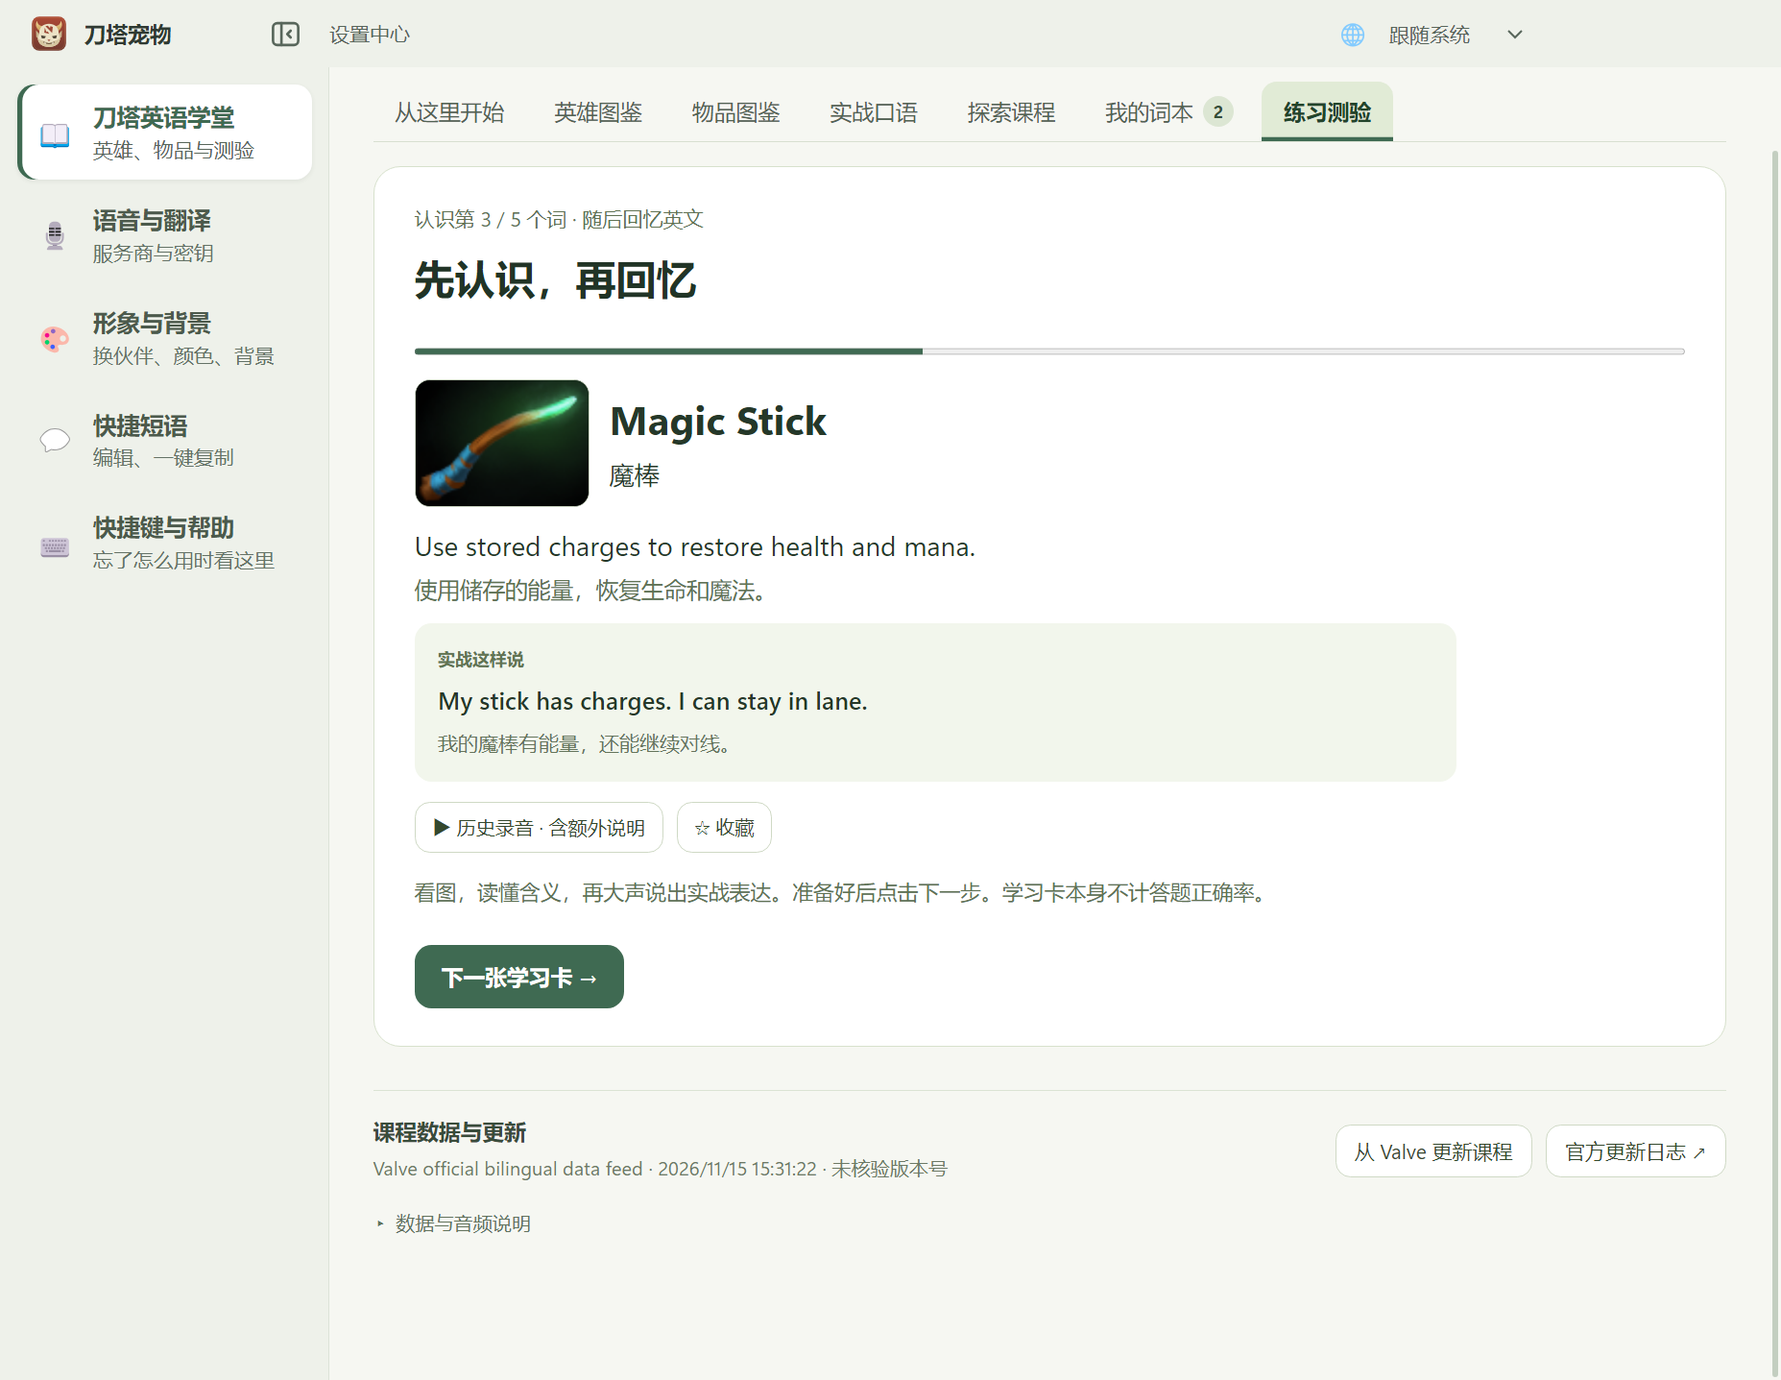
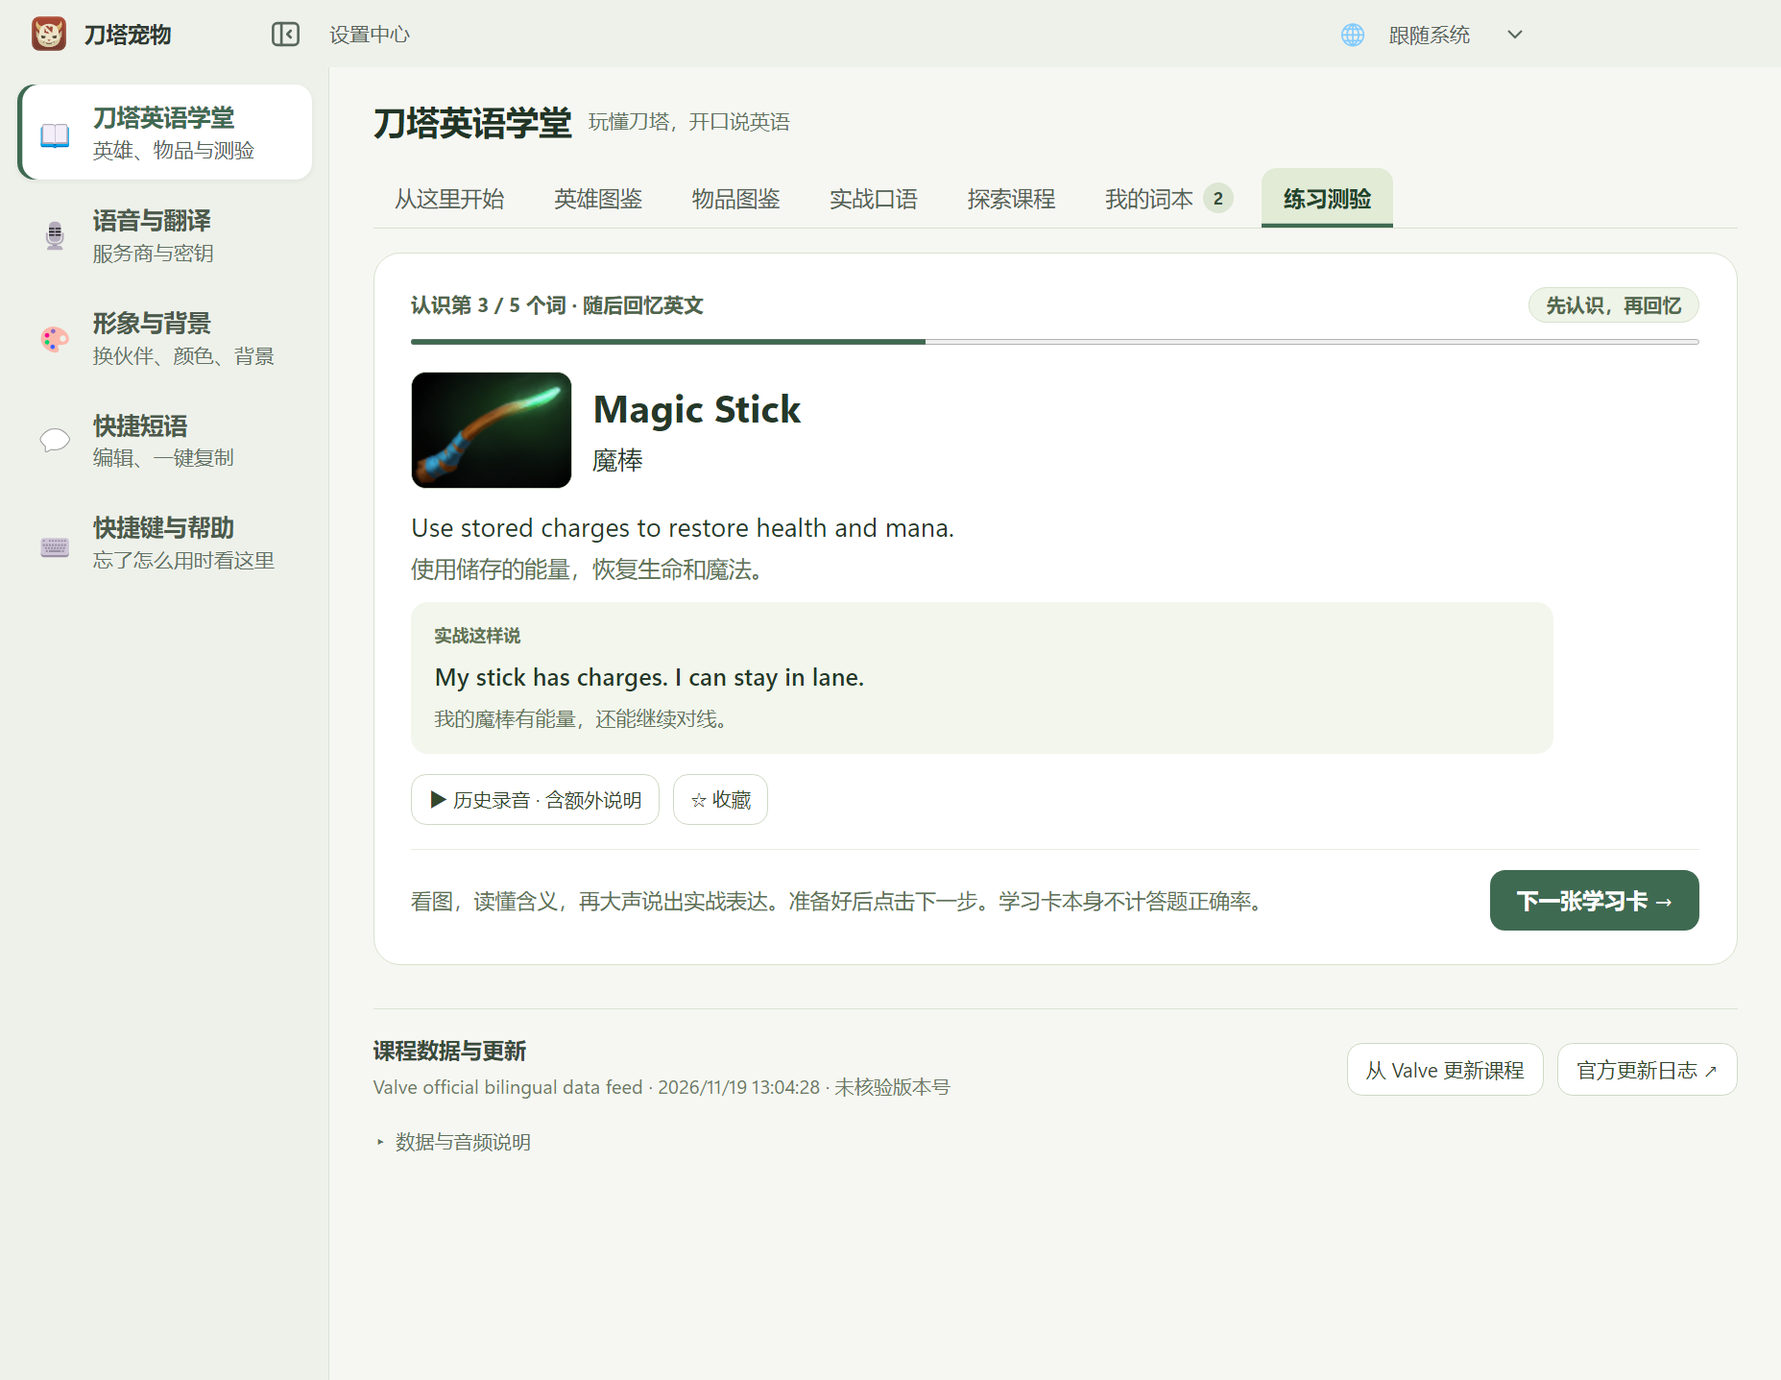
feat(learning): align quiz feedback bar with zero-scroll Play and Next controls

diff --git a/src/renderer/learning.css b/src/renderer/learning.css
@@ -101,30 +101,76 @@ input:focus,select:focus{border-color:#5b8267;box-shadow:0 0 0 3px rgba(63,106,8
 .mastery-sub{font-size:10px;color:#738067}
 
 /* === Guided Lesson, Quiz & Summary === */
-.practice{background:#fff;border:1px solid #d7e1cc;border-radius:16px;padding:22px 24px;margin:4px 0 18px}
-.practice h2{font-size:24px;margin:8px 0 10px;color:#213426}
-.practice #answers{display:grid;grid-template-columns:1fr 1fr;gap:10px;margin:14px 0}
-#answers button{text-align:left;padding:13px 15px;min-height:44px;border-radius:11px}
-#answers .correct{background:#dcebd0;border-color:#7c9f5d}
-#answers .wrong{background:#f6e0d8;border-color:#c38b75}
-#quiz-counter,#quiz-context{font-size:12px;color:#71805e;margin:0 0 6px}
-#quiz-explanation{font-size:13px;line-height:1.7;white-space:pre-line}
-#result{font-weight:600}
-#session-progress,#guide-progress{width:100%;height:8px;accent-color:#3f6a52}
+.practice{background:#fff;border:1px solid #d7e1cc;border-radius:16px;padding:20px 22px;margin:4px 0 18px}
+.practice h2{font-size:24px;margin:6px 0 8px;color:#213426}
+.quiz-top{display:flex;align-items:center;justify-content:space-between;gap:10px;flex-wrap:wrap;margin:0 0 8px}
+#quiz-counter,#guide-counter{font-size:12px;font-weight:700;color:#4f664b;margin:0;font-variant-numeric:tabular-nums}
+#quiz-context,.practice .guide-title-tag{font-size:11.5px;font-weight:600;line-height:1.4;color:#52694d;background:#eef4e7;border:1px solid #d7e2cc;padding:2px 10px;border-radius:999px;margin:0}
+#session-progress,#guide-progress{width:100%;height:7px;accent-color:#3f6a52;display:block;margin:0 0 14px}
+
+.quiz-prompt-row{display:flex;align-items:center;gap:14px;margin:0 0 14px}
+.quiz-prompt-copy{min-width:0;flex:1}
+.quiz-prompt-copy #question{font-size:24px;line-height:1.25;margin:0 0 4px;color:#1e3222}
+.quiz-prompt-copy #recall-help{font-size:12.5px;color:#64745b;line-height:1.5;margin:0}
+#quiz-picture:empty{display:none}
+#quiz-picture{margin:0;flex-shrink:0}
+#quiz-picture .item-picture{width:82px;height:60px;border-radius:10px}
+
+.practice #answers{display:grid;grid-template-columns:1fr 1fr;gap:10px;margin:0}
+#answers button{display:flex;align-items:center;justify-content:space-between;gap:8px;text-align:left;padding:12px 15px;min-height:44px;border-radius:11px;font-size:14px;font-weight:500;color:#233726;background:#fcfdfb;border:1px solid #d2dcc8}
+#answers button:hover:not(:disabled){background:#f1f6ea;border-color:#9bb389}
+#answers button:disabled{opacity:.55}
+#answers .correct{opacity:1!important;background:#e1f0d6;border-color:#5f8d4e;color:#1b4322;font-weight:700}
+#answers .correct::after{content:'✓';font-size:14px;font-weight:800;color:#2c6430;flex-shrink:0}
+#answers .wrong{opacity:1!important;background:#fbe7e1;border-color:#c97d6b;color:#7f2a1f;font-weight:700}
+#answers .wrong::after{content:'✕';font-size:13px;font-weight:800;color:#a93c2d;flex-shrink:0}
+
+.quiz-feedback{margin-top:14px;display:flex;flex-direction:column;gap:10px}
+.quiz-feedback-bar{display:flex;align-items:center;justify-content:space-between;gap:12px;flex-wrap:wrap;padding:10px 14px;border-radius:12px;background:#edf5e6;border:1px solid #c9dcba}
+.quiz-feedback[data-outcome=wrong] .quiz-feedback-bar{background:#fcf0ec;border-color:#e8c4b9}
+#result{font-size:13.5px;font-weight:700;color:#234e2a;margin:0}
+.quiz-feedback[data-outcome=wrong] #result{color:#8c2f23}
+.quiz-feedback-actions{display:flex;align-items:center;gap:8px;flex-wrap:wrap;flex-shrink:0}
+.quiz-audio-slot{display:inline-flex;align-items:center;gap:8px}
+.quiz-audio-slot button{height:36px;padding:0 13px;border-radius:9px;background:#fff;border:1px solid #c4d5b9;color:#29462d;font-size:12.5px;font-weight:600}
+.quiz-audio-slot button:hover:not(:disabled){background:#f5f9f0;border-color:#8cab7c}
+#next{height:36px;padding:0 16px;border:0;border-radius:9px;background:#3f6a52;color:#fff;font-size:13px;font-weight:600;margin:0}
+#next:hover:not(:disabled){background:#325844}
+
+.quiz-explanation:empty{display:none}
+.quiz-explanation{display:flex;flex-direction:column;gap:8px}
+.quiz-coach{padding:11px 14px;border-radius:11px;background:#f4f8ef;border:1px solid #dde6d5}
+.quiz-coach-label{display:inline-block;font-size:10.5px;font-weight:700;letter-spacing:.3px;color:#5a704f;margin-bottom:4px}
+.quiz-coach-en{font-size:14.5px;font-weight:600;line-height:1.45;color:#1e3322;margin:0 0 3px}
+.quiz-coach-zh{font-size:12.5px;line-height:1.5;color:#5f6f58;margin:0}
+.quiz-details{border:1px solid #e1e8da;border-radius:10px;background:#fafbf8;padding:8px 12px}
+.quiz-details summary{cursor:pointer;list-style:none;display:inline-flex;align-items:center;gap:5px;font-size:12px;font-weight:600;color:#51664c;user-select:none}
+.quiz-details summary::-webkit-details-marker{display:none}
+.quiz-details summary::before{content:'▸';font-size:10px;line-height:1;transition:transform .15s ease}
+.quiz-details[open] summary::before{transform:rotate(90deg)}
+.quiz-details summary:hover{color:#26402a}
+.quiz-details-body{margin-top:8px;padding-top:8px;border-top:1px solid #e9efe3}
+.quiz-bilingual-box{padding:11px 14px;border-radius:11px;background:#f7f9f3;border:1px solid #e1e8da}
+.quiz-desc-en{font-size:12.5px;line-height:1.65;color:#2b3e2e;white-space:pre-line;margin:0}
+.quiz-desc-zh{font-size:12px;line-height:1.65;color:#5f6f58;white-space:pre-line;margin:8px 0 0;padding-top:8px;border-top:1px solid #e5ecde}
+
 #summary-score{font-size:20px;font-weight:700;margin:8px 0}
 #summary-tip{font-size:13px;color:#607253;line-height:1.6}
 .review-word{padding:12px 0;border-top:1px solid #e0e7d8;overflow-wrap:anywhere}
 #session-mistakes{margin:14px 0}
-#guide-help,#guide-status{font-size:12.5px;line-height:1.6;color:#607253}
-.guided-card{max-width:620px}
-.guided-card .lesson-title h3{font-size:24px;line-height:1.3;margin:0 0 6px;overflow-wrap:anywhere}
-.guided-card .item-picture{width:104px;height:76px}
-.guide-meaning{font-size:16px;line-height:1.55;margin:10px 0 4px}
+.guide-footer{display:flex;align-items:center;justify-content:space-between;gap:14px;flex-wrap:wrap;margin-top:14px;padding-top:12px;border-top:1px solid #e6ede0}
+#guide-help{font-size:12.5px;line-height:1.55;color:#607253;margin:0;flex:1;min-width:220px}
+#guide-status{font-size:12px;line-height:1.5;color:#607253;margin:8px 0 0}
+#guide-status:empty{display:none}
+.guided-card{max-width:680px}
+.guided-card .lesson-title h3{font-size:23px;line-height:1.3;margin:0 0 4px;overflow-wrap:anywhere}
+.guided-card .item-picture{width:96px;height:70px}
+.guide-meaning{font-size:15.5px;line-height:1.55;margin:10px 0 3px}
 .guide-translation{font-size:13.5px;color:#607253;margin:0 0 10px}
-.guided-card .item-coach{padding:14px}
-#guide-next,#next,#new-session{background:#3f6a52;color:#fff;border:0;font-weight:600;padding:9px 16px;border-radius:10px;margin-top:10px}
-#guide-next:hover:not(:disabled),#next:hover:not(:disabled),#new-session:hover:not(:disabled){background:#325844}
-#guide-counter{font-size:12px;color:#607253;margin:0 0 6px}
+.guided-card .item-coach{padding:12px 14px}
+#guide-next,#new-session{background:#3f6a52;color:#fff;border:0;font-weight:600;padding:8px 16px;height:36px;border-radius:9px;margin:0;flex-shrink:0}
+#new-session{margin-top:10px}
+#guide-next:hover:not(:disabled),#new-session:hover:not(:disabled){background:#325844}
 
 /* === Lesson Cards & Explore / Saved Library === */
 .lessons{display:grid;grid-template-columns:repeat(2,minmax(0,1fr));gap:12px}
@@ -142,7 +188,7 @@ input:focus,select:focus{border-color:#5b8267;box-shadow:0 0 0 3px rgba(63,106,8
 /* === Audio & Voice Practice === */
 .audio-status{position:fixed;bottom:18px;left:24px;right:24px;z-index:60;padding:12px 16px;border:1px solid #d5ae82;border-radius:10px;background:#fff4de;color:#5f4527;font-size:13px;box-shadow:0 4px 18px #0002}
 .recording-button[aria-pressed=true]{background:#dcebd0;border-color:#7c9f5d}
-#quiz-audio{margin-bottom:14px}
+#quiz-audio{margin:0}
 .voice-practice-btn{background:#3f6a52;color:#fff;border-color:#3f6a52;font-weight:600}
 .voice-practice-btn:hover{background:#325844}
 .voice-practice-bar{position:fixed;bottom:16px;left:50%;transform:translateX(-50%);z-index:20;width:min(700px,calc(100% - 32px));background:rgba(244,248,238,.94);backdrop-filter:blur(12px);border:1px solid #b4c99e;border-radius:16px;padding:12px 16px;box-shadow:0 12px 32px rgba(27,46,24,.16);animation:voiceBarRise .2s ease-out}
@@ -230,9 +276,6 @@ input:focus,select:focus{border-color:#5b8267;box-shadow:0 0 0 3px rgba(63,106,8
 .match-chinese{font-size:12px;color:#65745b;line-height:1.55;margin:0}
 .vocabulary-hints{display:flex;flex-wrap:wrap;gap:5px;margin-top:8px}
 .vocabulary-hint{font-size:10px;padding:2px 6px;background:#fff;border:1px solid #dbe4d1;border-radius:5px}
-#recall-help{font-size:12px;color:#64745b;line-height:1.6}
-#quiz-picture:empty{display:none}
-#quiz-picture{margin-top:10px}
 
 /* === Dota 2 Official Shop Item Grid === */
 .item-shop-bar{display:flex;align-items:center;justify-content:space-between;gap:8px;flex-wrap:wrap;margin:4px 0 9px}

diff --git a/src/renderer/learning.js b/src/renderer/learning.js
@@ -1162,14 +1162,17 @@ function renderStudy() {
   $('practice').hidden = false;
   $('quiz-counter').textContent = text('Lesson ', '第 ') + (index + 1) + ' / ' + active.items.length;
   $('session-progress').max = active.items.length; $('session-progress').value = active.answers.length;
-  $('quiz-context').textContent = labels[item.lesson.kind] + ' · ' + (item.lesson.parent || '');
+  $('quiz-context').textContent = item.lesson.parent ? `${labels[item.lesson.kind]} · ${item.lesson.parent}` : labels[item.lesson.kind];
   $('question').textContent = item.question.prompt;
   $('quiz-picture').replaceChildren();
   if (item.lesson.kind === 'item') $('quiz-picture').append(itemImageNode(item.lesson, true));
   $('recall-help').textContent = item.lesson.kind === 'item'
     ? text('Say your answer aloud before choosing. The picture is your memory cue.', '先大声说出答案，再选择。物品图片可以帮助你回忆。')
     : text('Try saying your answer aloud before choosing.', '先尝试大声说出答案，再选择。');
-  $('answers').replaceChildren(); $('quiz-audio').replaceChildren(); $('result').textContent = ''; $('quiz-explanation').textContent = '';
+  $('answers').replaceChildren(); $('quiz-audio').replaceChildren(); $('result').textContent = ''; $('quiz-explanation').replaceChildren();
+  const feedbackBox = $('quiz-feedback');
+  feedbackBox.hidden = !showFeedback;
+  feedbackBox.dataset.outcome = showFeedback ? (showFeedback.correct ? 'correct' : 'wrong') : '';
   $('next').hidden = !showFeedback;
   $('next').textContent = active.completedAt ? text('See session summary →', '查看学习总结 →') : text('Next question →', '下一题 →');
   for (const option of item.question.options) {
@@ -1184,16 +1187,48 @@ function renderStudy() {
         receive(await api.answerSession(active.id, item.lesson.id, option));
         feedbackIndex = index;
         if (mode === 'quiz') render();
-      } catch (error) { $('result').textContent = error.message; for (const control of $('answers').children) control.disabled = false; }
+      } catch (error) {
+        feedbackBox.hidden = false;
+        feedbackBox.dataset.outcome = 'wrong';
+        $('result').textContent = error.message;
+        for (const control of $('answers').children) control.disabled = false;
+      }
       finally { pendingAnswer = false; }
     };
     $('answers').append(button);
   }
   if (showFeedback) {
-    $('result').textContent = showFeedback.correct ? text('Correct! Scheduled for a later review.', '答对了！已安排后续复习。') : text('Answer: ', '正确答案：') + item.question.answer;
-    const cue = itemCoaching(item.lesson);
-    $('quiz-explanation').textContent = (cue ? cue.en + '\n' + cue.zh + '\n\n' : '') + item.lesson.descriptionEn + '\n' + item.lesson.descriptionZh;
+    $('result').textContent = showFeedback.correct
+      ? text('✓ Correct! Scheduled for a later review.', '✓ 答对了！已安排后续复习。')
+      : text('✕ Answer: ', '✕ 正确答案：') + item.question.answer;
     $('quiz-audio').append(audioButton(item.lesson));
+    const explanation = $('quiz-explanation');
+    const cue = itemCoaching(item.lesson);
+    if (cue) {
+      const coach = node('div', '', 'quiz-coach');
+      coach.append(
+        node('span', text('Say it in a match', '实战这样说'), 'quiz-coach-label'),
+        node('p', cue.en, 'quiz-coach-en'),
+        node('p', cue.zh, 'quiz-coach-zh'),
+      );
+      explanation.append(coach);
+    }
+    if (item.lesson.descriptionEn || item.lesson.descriptionZh) {
+      if (cue) {
+        const details = node('details', '', 'quiz-details');
+        details.append(node('summary', text('Full bilingual details', '查看完整双语说明')));
+        const body = node('div', '', 'quiz-details-body');
+        if (item.lesson.descriptionEn) body.append(node('p', item.lesson.descriptionEn, 'quiz-desc-en'));
+        if (item.lesson.descriptionZh) body.append(node('p', item.lesson.descriptionZh, 'quiz-desc-zh'));
+        details.append(body);
+        explanation.append(details);
+      } else {
+        const box = node('div', '', 'quiz-bilingual-box');
+        if (item.lesson.descriptionEn) box.append(node('p', item.lesson.descriptionEn, 'quiz-desc-en'));
+        if (item.lesson.descriptionZh) box.append(node('p', item.lesson.descriptionZh, 'quiz-desc-zh'));
+        explanation.append(box);
+      }
+    }
   }
 }
 function renderSummary(active) {

diff --git a/src/renderer/learning.html b/src/renderer/learning.html
@@ -119,14 +119,43 @@
     <section id="mastery-strip" class="mastery-strip" aria-label="Mastery by category"></section>
   </section>
   <section id="guided-lesson" class="practice" hidden aria-labelledby="guide-heading">
-    <p id="guide-counter"></p><h2 id="guide-heading">Learn first</h2>
+    <div class="quiz-top">
+      <p id="guide-counter"></p>
+      <h2 id="guide-heading" class="guide-title-tag">Learn first</h2>
+    </div>
     <progress id="guide-progress" value="0" max="5" aria-label="Learning card progress"></progress>
     <div id="guide-card" translate="no"></div>
-    <p id="guide-help">Look at the picture, read the meaning, and say the match sentence aloud. Choose Next when you are ready to recall it.</p>
+    <div class="guide-footer">
+      <p id="guide-help">Look at the picture, read the meaning, and say the match sentence aloud. Choose Next when you are ready to recall it.</p>
+      <button id="guide-next" type="button">Next learning card →</button>
+    </div>
     <p id="guide-status" role="status" aria-live="polite"></p>
-    <button id="guide-next" type="button">Next learning card →</button>
   </section>
-  <section id="practice" class="practice" hidden aria-label="Quiz"><p id="quiz-counter"></p><progress id="session-progress" value="0" max="5" aria-label="Session progress"></progress><p id="quiz-context" translate="no"></p><div id="quiz-picture"></div><h2 id="question" translate="no"></h2><p id="recall-help">Say your answer aloud before choosing. The picture is your memory cue.</p><div id="answers" translate="no"></div><p id="result" role="status" aria-live="polite"></p><p id="quiz-explanation" translate="no"></p><div id="quiz-audio" class="actions" translate="no"></div><button id="next">Next question →</button></section>
+  <section id="practice" class="practice" hidden aria-label="Quiz">
+    <div class="quiz-top">
+      <p id="quiz-counter"></p>
+      <p id="quiz-context" translate="no"></p>
+    </div>
+    <progress id="session-progress" value="0" max="5" aria-label="Session progress"></progress>
+    <div class="quiz-prompt-row">
+      <div id="quiz-picture"></div>
+      <div class="quiz-prompt-copy">
+        <h2 id="question" translate="no"></h2>
+        <p id="recall-help">Say your answer aloud before choosing. The picture is your memory cue.</p>
+      </div>
+    </div>
+    <div id="answers" translate="no"></div>
+    <div id="quiz-feedback" class="quiz-feedback" hidden>
+      <div class="quiz-feedback-bar">
+        <p id="result" role="status" aria-live="polite"></p>
+        <div class="quiz-feedback-actions">
+          <div id="quiz-audio" class="quiz-audio-slot" translate="no"></div>
+          <button id="next" type="button">Next question →</button>
+        </div>
+      </div>
+      <div id="quiz-explanation" class="quiz-explanation" translate="no"></div>
+    </div>
+  </section>
   <section id="session-summary" class="practice" hidden aria-labelledby="summary-heading"><h2 id="summary-heading">Session complete</h2><p id="summary-score" role="status"></p><p id="summary-tip"></p><h3 id="mistakes-heading">Words to revisit</h3><div id="session-mistakes" translate="no"></div><button id="new-session">Plan another session →</button></section>
   <section id="library" aria-label="Bilingual lessons"><div id="lessons" class="lessons" translate="no"></div></section>
   <button id="more" hidden>Load more</button>

diff --git a/src/main/starterPathSmoke.js b/src/main/starterPathSmoke.js
@@ -55,7 +55,24 @@ export async function runStarterPathSmoke({ page, controlCenter, nativeImage, ou
     if (byId('practice').hidden || !byId('guided-lesson').hidden) throw new Error('Learning did not lead to recall');
     const active = (await window.learningAPI.load()).study.active;
     if (active.options.direction !== 'zh' || active.options.scope !== 'starter-lane') throw new Error('Starter recall lost its English direction or collection');
-    for (const item of active.items) {
+    // Answer the first item (Tango) and verify Play + Next remain visible above the fold with zero scrolling.
+    [...document.querySelectorAll('#answers button')].find(button => button.textContent === active.items[0].question.answer).click();
+    for (let i = 0; i < 100 && byId('next').hidden; i++) await new Promise(resolve => setTimeout(resolve, 20));
+    if (byId('next').hidden) throw new Error('Starter answer was not saved');
+    window.scrollTo(0, 0);
+    await new Promise(r => requestAnimationFrame(() => requestAnimationFrame(r)));
+    const nextRect = byId('next').getBoundingClientRect();
+    const audioRect = document.querySelector('#quiz-audio button')?.getBoundingClientRect();
+    if (!audioRect || nextRect.bottom > window.innerHeight || audioRect.bottom > window.innerHeight) {
+      throw new Error('Quiz feedback actions pushed below fold: next=' + Math.round(nextRect.bottom) + ', audio=' + Math.round(audioRect?.bottom || 0) + ', vh=' + window.innerHeight);
+    }
+  })()`);
+  fs.writeFileSync(path.join(outputDirectory, 'learning-quiz-feedback.png'), (await captureHub(controlCenter, nativeImage)).toPNG());
+  await page.executeJavaScript(`(async () => {
+    const byId = id => document.getElementById(id);
+    const active = (await window.learningAPI.load()).study.active;
+    byId('next').click();
+    for (const item of active.items.slice(1)) {
       [...document.querySelectorAll('#answers button')].find(button => button.textContent === item.question.answer).click();
       for (let i = 0; i < 100 && byId('next').hidden; i++) await new Promise(resolve => setTimeout(resolve, 20));
       if (byId('next').hidden) throw new Error('Starter answer was not saved');
